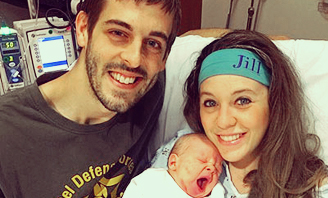
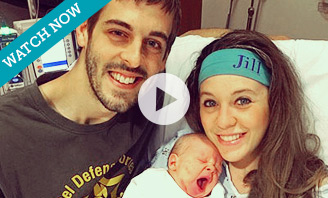
image updates, add link to header, remove href property for FB

Changed region(s): [[0.0, 0.0, 0.3354, 0.4545], [0.3963, 0.3636, 0.5793, 0.6364]]

diff --git a/index.html b/index.html
@@ -80,7 +80,7 @@
                         </div>
                         <div class="left_col">
                             <a class="video_thumb" href="http://www.tlc.com/tv-shows/19-kids-and-counting/videos/getting-ready-for-baby-dilly/"><img src="elements/img/video-thumb.jpg" alt="Watch more Duggars: Josh and Anna's Gender Reveal" /></a>
-                            <h3><a href="">Watch More Duggars:</a></h3>
+                            <h3><a href="http://www.tlc.com/tv-shows/19-kids-and-counting/videos/getting-ready-for-baby-dilly/">Watch More Duggars:</a></h3>
                             <a href="">Josh &amp; Anna's Gender Reveal</a>
                         </div>
                     </div>

diff --git a/elements/js/dng-main.js b/elements/js/dng-main.js
@@ -191,7 +191,7 @@ $(document).ready(function() {
             caption: 'Click HERE to find out your @19 Kids and Counting name',
             description: '#19Kids',
             display: 'popup',
-            href: share_link,
+            //href: share_link,
         }, function(response){});
 	    
 	});
